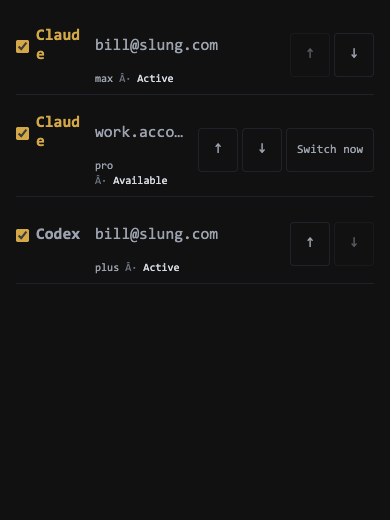
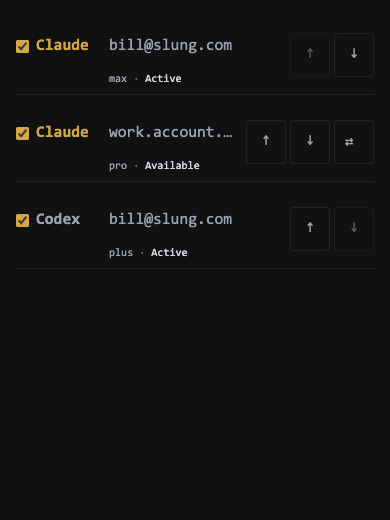
fix: nowrap CLI label, compact ⇄ Switch now at phone width

diff --git a/public/style.css b/public/style.css
@@ -2948,19 +2948,21 @@ select.job-mode-danger {
 .rotation-account .account-error { grid-column: 1 / -1; }
 .account-actions [data-action="rotation-up"], .account-actions [data-action="rotation-down"] { min-width: 36px; padding: 8px 0; text-align: center; font-size: 14px; }
 .account-actions [data-action="rotation-switch"] { white-space: nowrap; padding: 8px; font-size: 12px; }
+.sw-short { display: none; }
+@media (max-width: 700px) { .sw-full { display: none; } .sw-short { display: inline; font-size: 14px; } .account-actions [data-action="rotation-switch"] { min-width: 40px; padding: 8px 0; } }
 .account-email { min-width: 0; overflow: hidden; text-overflow: ellipsis; white-space: nowrap; }
 .account-name { min-width: 0; }
 .account-identity { display: flex; flex-wrap: wrap; align-items: center; gap: 4px 12px; }
 .account-identity .rotation-toggle { flex: 1 1 180px; margin: 0; }
 .account-identity .settings-dim { font-size: 11px; }
 /* Which CLI a login belongs to: the row's first column, one width for every CLI so the list reads like a table. */
-.account-cli-tag { flex: 0 0 52px; font-weight: bold; color: var(--accent); }
+.account-cli-tag { flex: 0 0 66px; white-space: nowrap; font-weight: bold; color: var(--accent); }
 .rotation-account:not([data-cli="claude"]) .account-cli-tag { color: var(--text-muted); }
 .account-name { display: flex; align-items: center; gap: 7px; padding-left: 20px; min-height: 24px; color: var(--text); overflow-wrap: anywhere; }
 .account-meta { display: flex; flex-wrap: wrap; align-items: baseline; gap: 2px 6px; font-size: 11px; }
 .account-meta .account-state { color: var(--text); }
 .account-meta > * + *::before { content: '· '; color: var(--text-dim); }
-.account-meta { padding-left: 79px; }
+.account-meta { padding-left: 93px; }
 .account-panel .rotation-toggle { margin: 0; min-height: 36px; }
 .account-panel input[type="checkbox"] { accent-color: var(--accent); }
 .account-panel .account-btn { min-height: 36px; padding: 8px 10px; }

diff --git a/public/modules/account.js b/public/modules/account.js
@@ -174,6 +174,8 @@ function render(body) {
     if (a.id !== draft.active[a.cli]) button(controls, 'Switch now', 'rotation-switch', () => {
       if (confirm(`Switch ${NAME[a.cli]} to ${a.email}? The app's ${NAME[a.cli]} sessions will restart in their existing conversations.`)) transmit(body, 'rotation-switch', { ...cliField(a.cli), id: a.id });
     }, `Switch ${NAME[a.cli]} to ${a.email} now`);
+    const sw = controls.querySelector('[data-action="rotation-switch"]');
+    if (sw) { sw.title = 'Switch now'; sw.innerHTML = '<span class="sw-full">Switch now</span><span class="sw-short" aria-hidden="true">⇄</span>'; }
   });
   const manual = document.createElement('details'); manual.className = 'account-manual'; manual.open = manualOpen;
   manual.ontoggle = () => { manualOpen = manual.open; };
